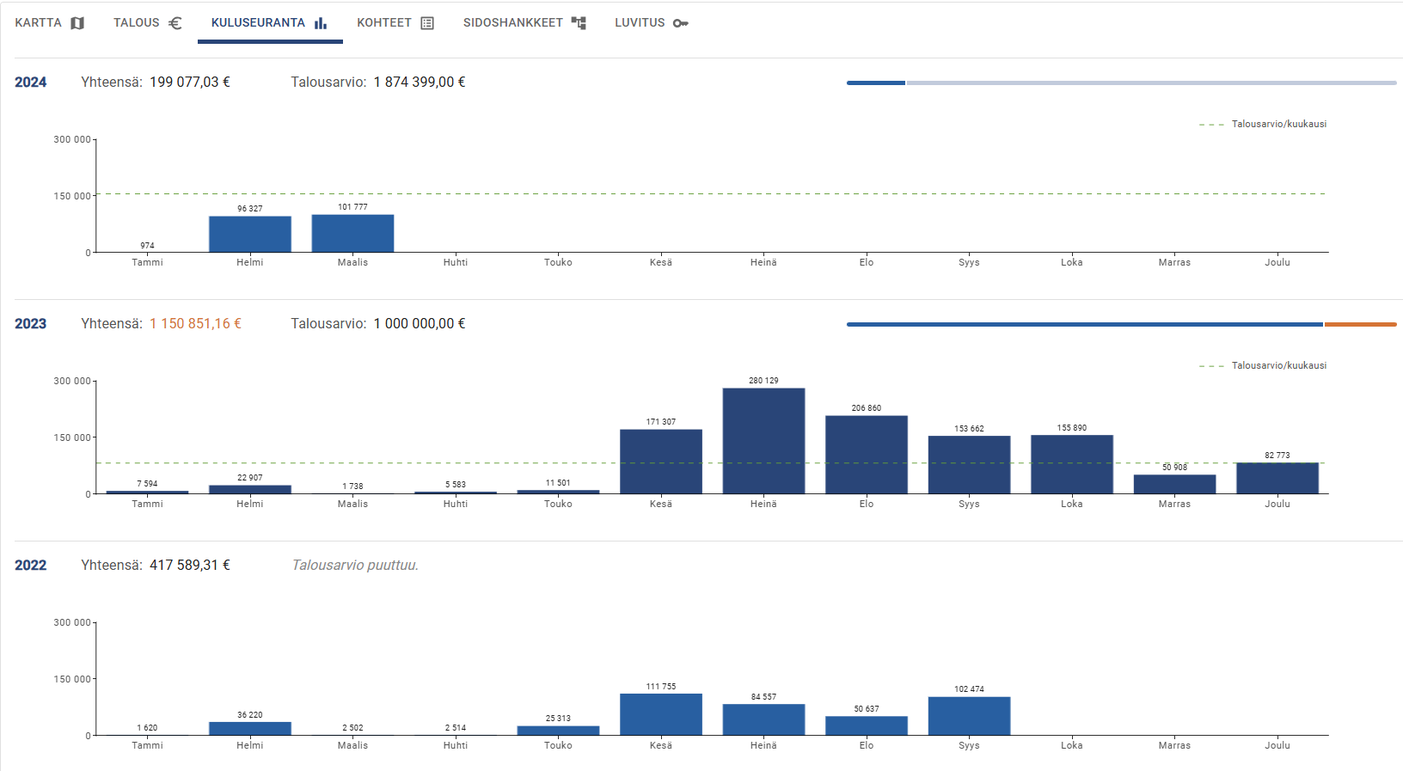
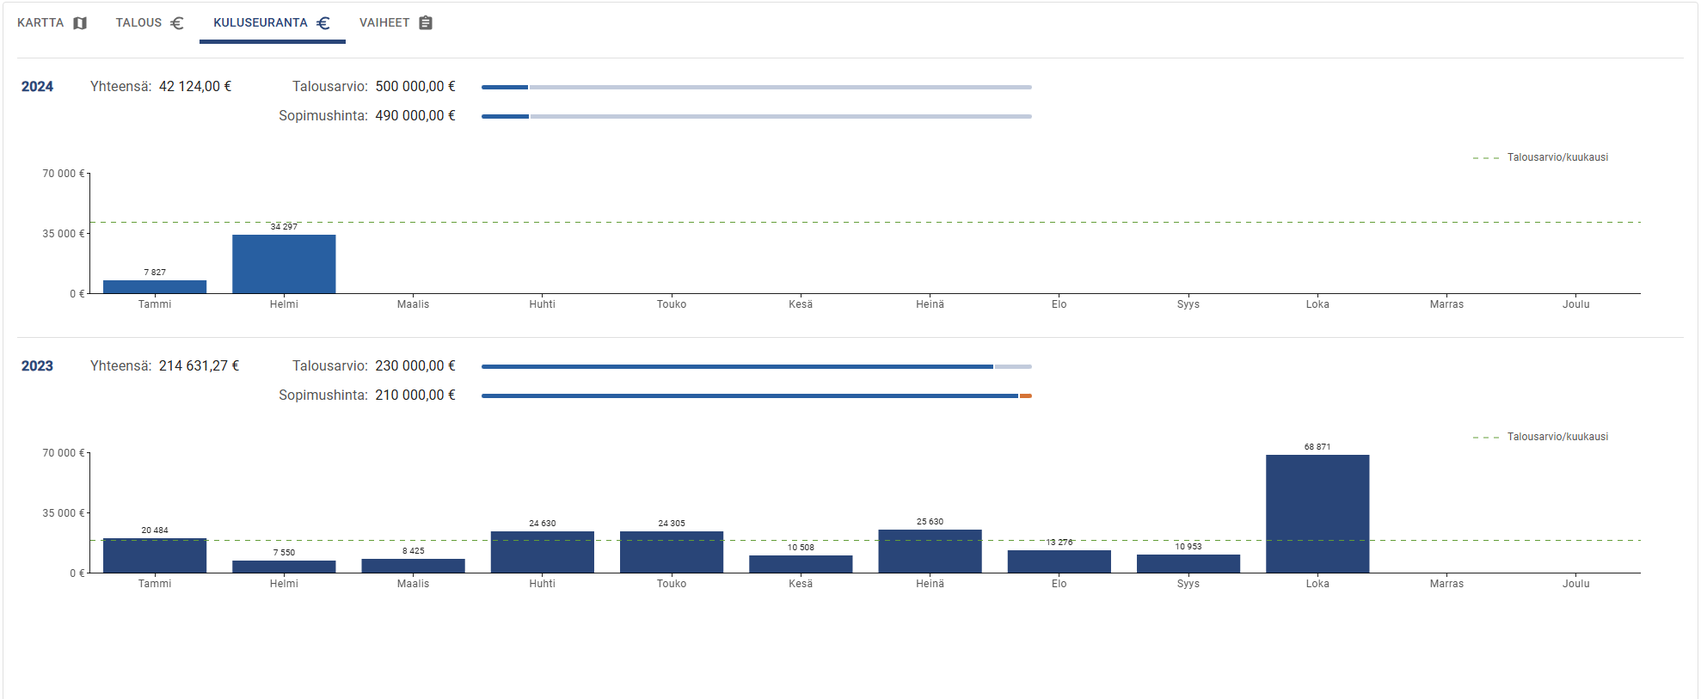
Updates to manual contents and images

diff --git a/frontend/src/views/Manual/fi.md b/frontend/src/views/Manual/fi.md
@@ -54,29 +54,24 @@
 - [Yrityksien ja heidän yhteyshenkilöiden hallinta](#yrityksien-ja-heidän-yhteyshenkilöiden-hallinta)
 
 # Yleistä
-
 Hanna on Tampereen kaupungin maankäytön suunnittelun ja toteuttamisen hanketietojärjestelmä. Se tarjoaa mahdollisuuden perustaa asemakaavoituksen, investointien ja kunnossapidon hankkeita, suunnitella niiden taloutta ja seurata niiden taloustoteumaa. Hannan rooli korostuu erityisesti hankesuunnittellussa: Millaisia hankkeita ja millaisella budjetilla toteutetaan vuoden, kolmen tai esimerkiksi viidentoista vuoden päästä.
 
 Hannan käyttöä laajennetaan käyttäjäryhmä kerrallaan. Viimeisimpinä mukaan ovat tulleet kunnossapitäjät ja kehitysohjelmat. Kehitys on aloitettu vuonna 2022. Kehittäjänä ja ylläpitäjänä toimii Ubigu Oy.
 
 # Järjestelmän tuki
-
 Lähitukea tarjoaa Jaana Turunen ([jaana.turunen@tampere.fi](mailto:jaana.turunen@tampere.fi)). Jaana vastaa myös käyttäjien luvittamisesta sovelluksen käyttöön. Hannalla on myös oma Teams -ryhmä, jossa järjestelmän käytöstä ja kehityksestä voi keskustella muiden käyttäjien ja kehittäjien kesken.
 
 Virhetilanteista ja bugeista viestiä voi lähettää myös suoraan kehittäjille osoitteeseen [tuki@ubigu.fi](mailto:tuki@ubigu.fi).
 
 # Testi- ja tuotantojärjestelmä
-
 Hannasta on olemassa kaksi eri järjestelmää. Testijärjestelmä toimii osoitteessa [tre-hanna-test.azurewebsites.net](https://tre-hanna-test.azurewebsites.net/). Siellä käyttäjät voivat kokeilla Hannan toiminnallisuuksia ilman huolta järjestelmän rikkoutumisesta tai tuotantokäytön häiriintymisestä. Varsinainen käyttö tapahtuu tuotantojärjestelmässä osoitteessa [hanna.tampere.fi](https://hanna.tampere.fi).
 
 Huomioi, että testijärjestelmään luodut tiedot voivat aikanaan poistua, ja se on tarkoitettu yksinomaan testaamiseen. Varsinainen hanketieto tulee kirjata tuotantojärjestelmään, missä sen säilymisestä, eheydestä ja varmuuskopioinnista huolehditaan. Järjestelmiin luvittaminen tapahtuu erikseen, eli esimerkiksi tuotantojärjestelmään pääsevä käyttäjä ei automaattisesti pääse myös testijärjestelmään.
 
 # Integraatiot muihin järjestelmiin
-
 Tässä kappaleessa on listattu kaupungin muut tietojärjestelmät, joiden kanssa Hanna omaa jonkinasteisen integraation.
 
 ## SAP
-
 Hanna lukee SAP:sta projektien tietoja sekä niiden tositteita. Toistaiseksi tietojen luku tapahtuu yksisuuntaisesti, eli SAP ei vastavuoroisesti hae tietoa Hannasta tai ota kantaa Hannan hankkeisiin. Hannasta käsin ei myöskään toistaiseksi ole mahdollista päivittää tietoja suoraan SAP:iin. Hanna hakee kaikki SAP:n projektit ja niiden tositteet kerran vuorokaudessa yöaikaan ja tallentaa ne omaan tietokantaansa, josta ne esitetään käyttöliittymässä. SAP:iin toteutetut muutokset ilmenevät näin ollen Hannassa yleensä päivän viiveellä.
 
 Projektien ja tositteiden haku SAP:sta on rajattu seuraaviin yrityksiin.
@@ -86,15 +81,12 @@ Projektien ja tositteiden haku SAP:sta on rajattu seuraaviin yrityksiin.
 - 1540 (ELOSA)
 
 ## Geoserver
-
 Paikkatietojen osalta Hanna hyödyntää kaupungin olemassaolevia aineistoja ja rajapintoja. Geoserveriltä haetaan erilaisia taustakartta-aineistoja (opaskartta, asemakaava, virastokartta...), rekisterikohteita (kiinteistöt, kadut...) sekä aluerajauksia (tilastoalueet). Saatavilla olevia aineistoja on mahdollista lisätä tarpeen mukaan. Toistaiseksi Hannassa piirretyt hanke- ja kohdealueet eivät ole tarjolla kaupungin Geoserverillä tai Oskari-karttapalvelussa.
 
 ## Hankkeen perustamisen ja ostotilauksen pyyntölomake (nk. e-lomake)
-
 Hannan navigointipalkin oikeasta laidasta löytyy painike, joka ohjaa käyttäjän kaupungin niin kutsutulle e-lomakkeelle, jota kautta voi pyytää SAP-projektin perustamista ja ostotilauksen tekemistä talousyksiköltä.
 
 # Karttasivu
-
 ![Hannan karttasivu](/images/karttasivu.png)<br/>
 
 Kartta on Hannan laskeutumissivu. Siellä käyttäjä voi tarkastella hankkeita, tai vaihtoehtoisesti niiden kohteita kartalla, tehdä hakuja, tarkastella niiden perustietoja sekä perustaa uusia hankkeita tai kohteita. Alla on kuvattu yllä näkyvään kuvaan numeroidut toiminnot tarkemmin.
@@ -117,13 +109,11 @@ Käyttäjä voi klikata kartalla näkyviä hanke- ja kohdealueita, jolloin niill
 Kattavimmat tiedot ja muokkausmahdollisuus löytyvät hankkeiden ja kohteiden omilta sivuilta.
 
 ## Uuden hankkeen perustaminen
-
 Uusi hanke perustetaan etusivulta löytyvästä _Luo uusi hanke_ -painikkeesta. Painaessaan sitä käyttäjä valitsee ensin, minkä hanketyypin mukaisen hankkeen hän haluaa perustaa. Vain ne hanketyypit, joiden perustamiseen käyttäjällä on oikeus, listataan (lue lisää [käyttöoikeuksista](#käyttöoikeudet)). Valinta on olennainen, sillä hanketyypeillä on erilaiset tietosisällöt ja rakenne. Tämän jälkeen käyttäjä ohjataan tyhjälle hankesivulle, jossa hankkeen tiedot pääsee täyttämään.
 
 Uusia kohteita voi perustaa karttasivun kohteet-välilehdeltä, hankesivuilta ja investointiohjelmoinnin näkymästä käsin.
 
 ## Hakujen tekeminen
-
 Hankkeita voi hakea seuraavilla ehdoilla.
 
 - Vapaa tekstihaku, joka kohdistuu nimeen, kuvaukseen sekä kaavanumeroon (jos kyseessä on asemakaavahanke)
@@ -156,13 +146,11 @@ Myös itse karttaikkuna toimii suodattimena. Hakutuloksiin ilmestyvät oletuksen
 # Käyttöoikeudet
 
 ## Käyttäjätyypit
-
 Hannaan luvitetut käyttäjät jakautuvat perus- ja pääkäyttäjiin. Hanna tunnistaa automaattisesti kirjautumisen yhteydessä, kumpaan ryhmään käyttäjä kuuluu. Pääkäyttäjillä on Hannan käyttöön laajimmat mahdolliset oikeudet, ja he pystyvät muokkaamaan kaikkia hankkeita, poistamaan niitä ja vaihtamaan niiden omistajia. Peruskäyttäjien käyttöoikeudet on kuvattu tarkemmin alla.
 
 Jos sinulla on tarve vaihtaa toiseen käyttäjätyyppiin, ole yhteydessä Jaana Turuseen (jaana.turunen@tampere.fi).
 
 ## Pääkäyttäjän luvitusnäkymä
-
 Pääkäyttäjille on luotu oma näkymänsä, joka ei ole tarjolla peruskäyttäjille. Näkymästä käsin pääkäyttäjät voivat muokata seuraavia peruskäyttäjien oikeuksia:
 
 - Oikeus perustaa investointihanke
@@ -177,35 +165,27 @@ Pääkäyttäjä ei voi poistaa toisen pääkäyttäjän oikeuksia, vaan ne luet
 _Pääkäyttäjän luvitusnäkymä näyttää tältä. Peruskäyttäjiltä kyseinen sivu puuttuu kokonaan. Muut pääkäyttäjät ilmenevät harmaina, eikä heidän oikeuksiaan pääse muokkaamaan._
 
 ## Lukuoikeus
-
 Jokaisella Hannaan pääsevällä käyttäjällä on oikeus lukea koko hankejoukkoa, joka Hannaan on avattu. Tämä koskee myös SAP:n rajapinnan yli haettuja talous- ja projektitietoja (huomioi erityisesti [SAP-raportit -näkymä](#sap-raportit-näkymä)). Toistaiseksi Hanna-sovelluksen käyttöön on kuitenkin luvitettu vain Tampereen kaupunkiorganisaatioon kuuluvia henkilöitä.
 
 ## Hankkeen perustamisoikeus
-
 Pääkäyttäjät sekä heidän yksilöimänsä käyttäjät voivat perustaa Hannassa uusia hankkeita. Pääkäyttäjä yksilöi perustamisoikeuden hanketyypin tarkkuudella. Näin esimerkiksi voidaan sallia käyttäjälle perustaa asemakaavahankkeita, mutta estää investointihankkeiden perustaminen joko vahingossa tai epätarkoituksenmukaisesti. Jos peruskäyttäjä ei omaa oikeutta perustaa mitään hankkeita, esitetään karttanäkymän oikeassa ylälaidassa näkyvä `Luo uusi hanke` -painike harmaana.
 
 ## Oikeus muokata hankkeen tietoja
-
 Hankkeiden muokkausoikeus on hankkeen omistajalla, hänen osoittamillaan muilla peruskäyttäjillä sekä Hannan pääkäyttäjillä. Hankkeen muokkausoikeudet eivät oikeuta muokkaamaan hankkeen käyttöoikeuksia, vaan niiden muokkaaminen on rajattu yksinään hankkeen omistajalle (sekä pääkäyttäjille). Muokkausoikeudet periytyvät myös hankkeen kohteille, ja se koskettaa myös niiden luontia ja poistamista. Talousarvioiden ja käyttösuunnitelman muutoksen muokkaamiseen tarvitaan kuitenkin lisäksi erillinen oikeus pääkäyttäjältä. Omistaja hallinnoi hankkeen muokkausoikeutta hankesivulta löytyvältä luvitusvälilehdeltä.
 
 ## Oikeus poistaa hanke
-
 Vain hankkeen omistaja ja pääkäyttäjä voivat poistaa hankkeen. Huomioi, että hankkeen poistaminen tarkoittaa myös sen kohteiden poistamista.
 
 ## Hankkeen omistajan vaihtaminen
-
 Hankkeen omistaja voi luopua omistajuudestaan ja osoittaa sen toiselle käyttäjälle niin halutessaan. Ennen vaihtoa Hanna kysyy häneltä varmistuksen vaihtopäätöksestä ja sen, halutaanko vanhalle omistajalle jättää vielä muokkausoikeus hankkeeseen. Ongelmatilanteiden ilmetessä pääkäyttäjä voi aina vaihtaa hankkeen omistajaa.
 
 ## Oikeus muokata talousarvioita ja käyttösuunnitelman muutoksia
-
 Muokatakseen investointi- ja/tai kunnossapitohankkeiden talousarvioita tai käyttösuunnitelman muutosta (KSM), peruskäyttäjä tarvitsee siihen erikseen luvan pääkäyttäjältä. Tämä oikeus on universaali, eli se tulee annetuksi kerralla koko Hannan investointi- ja/tai kunnossapitohankejoukolle sekä niiden kohteille. Käyttäjä, joka on luvitettu muokkaamaan talousarvioita ja KSM:ää, ei tarvitse erikseen hankkeen omistajalta muokkausoikeutta hankkeeseen muokatakseen kyseisiä arvoja. Hän tarvitsee ne kuitenkin muokatakseen mitään hankkeen muista tiedoista.
 
 # Hankesivu
-
 Hankesivu on hankkeen koko tietosisällön yhteenkokoava paikka.
 
 ## Hankkeen tietojen syöttö ja muokkaaminen
-
 Perustaakseen uuden hankkeen käyttäjän on täytettävä sen tietoihin vähintään pakolliset kentät. Pakolliset tietokentät on merkitty käyttöliittymässä tähtikuviolla ("\*"). Investointihankkeen tarkempi tietosisältö ja sen merkitys on kuvattu [täällä](#investointihankkeen-tietosisältö), asemakaavahankkeen [täällä](#asemakaavahanke) ja kunnossapitohankkeen [täällä](#kunnossapitohanke).
 
 Hankkeen perustamisen jälkeen sen tietoja voi edelleen muokata valitsemalla muokkaa-painikkeen sivun oikeassa yläkulmassa. Muokattujenkin tietojen tulee sisältää aina vähintään pakolliset tietosisällöt, jotta muokkausten tallentaminen on mahdollista. Jokainen muokkaus luo Hannan tietokantaan uuden version hankkeesta. Sen osana tallentuu tieto siitä, kuka muokkauksen on tehnyt, milloin se on toteutunut ja mitä tarkalleen on muokattu. Käyttäjät eivät toistaiseksi pysty palauttamaan käyttöliittymästä käsin hankkeen aiempia versioita, mutta Hannan kehittäjät pystyvät siihen tarvittaessa. Toistaiseksi hankkeen historia- ja versiotietoja ei esitetä käyttöliittymässä. Muokkauksen ajaksi välilehdet menevät piiloon. Halutessasi muokata esimerkiksi hankkeen taloutta mene suoraan kyseiselle välilehdelle ja valitse haluttu kenttä.
@@ -217,6 +197,8 @@ Hankesivulta löytyy lisäksi joitakin hanketyyppikohtaisia toimintoja. Investoi
 - Kohteiden perustaminen (lue lisää kohteista [täällä](#kohteet))
 - Talouden hallinta ([lue lisää](#talous))
 - Sidoshankkeiden osoittaminen ([lue lisää](#hankkeiden-liittyminen-toisiinsa))
+
+Lisäksi investointihankkeelle löytyy toiminnallisuus, jolla sen voi aloitusvuotta voi aikaistaa tai myöhentää. Toiminnallisuus on toteutettu erityisesti sellaisia hankkeita, joilla on jo joukko kohteita ja talouslukuja, silmällä pitäen. Toiminnallisuus löytyy muokkaa-painikkeen yhteydessä sijaisevasta alasvetovalikosta.
 
 Asemakaavahankkeiden osalta hankesivulta löytyvät seuraavat toiminnot:
 
@@ -328,11 +310,11 @@ Välilehdellä näytetään myös tiedotushistoria. Siitä selviää, kuinka mon
 
 Investointihanke on hanke, jolla kasvatetaan Tampereen kaupungin omaisuuden arvoa. Siihen käytetty raha on investointirahaa (vrt. käyttötalous), ja käytettävissä olevan rahan määrää ohjaavat eri lautakuntien vuosisuunnitelmat. Investointihankkeita on monenlaisia, minkä myötä tämän hanketyypin on tarkoitus olla yleiskäyttöinen. Investointihanke sisältää joukon investointikohteita. Myös kehitysohjelmat hyödyntävät investointihanketta (ks. sitovuuskenttä).
 
-Investointihankkeita ovat esimerkiksi:
-
+Investointihankkeita voivat olla esimerkiksi:
 - Kaukajärven pohjoisrannan kaava-alueen rakentaminen
 - XXVI (Jokipohja) alueen saneeraukset
 - Liikennevalojen saneerausinvestoinnit ja uudelleenohjelmoinnit
+- Näsikallion eritasoliittymä
 
 ### Investointihankkeen tietosisältö
 
@@ -344,7 +326,7 @@ Investointihankkeita ovat esimerkiksi:
 | Loppuajankohta   | Ajankohta jolloin hanke päättyy. Loppuajankohdan täytyy sijaita alkuajankohdan jälkeen.                                                                                                                                                                                                                                  | Kyllä            |
 | Omistaja         | Hankkeen omistajalla viitataan Hannan käyttäjään, joka omistaa hankkeen. Omistaja on oletuksena hankkeen perustanut käyttäjä. Sitä voi kuitenkin vaihtaa valitsemalla arvoksi toisen käyttäjän. Omistajalla on oikeus poistaa hanke ja osoittaa siihen muokkausoikeus                                                    | Kyllä            |
 | Elinkaaren tila  | Arvo valitaan seuraavista joukosta: Aloittamatta, Käynnissä, Valmis, Odottaa. Hanke saa perustamisen hetkellä elinkaaritilakseen automaattisesti arvon 'Aloittamatta'.                                                                                                                                                   | Kyllä            |
-| Lautakunta       | Hankkeelle voi valita yhden seuraavista lautakunnista: Yhdyskuntalautakunta, Elinvoima- ja osaamislautakunta, Asunto- ja kiinteistölautakunta, Joukkoliikennelautakunta. Hankkeen talouden katsotaan kohdistuvan valittuun lautakuntaan.                                                                                 | Kyllä            |
+| Lautakunta       | Hankkeelle voi valita yhden tai useamman seuraavista lautakunnista: Yhdyskuntalautakunta, Elinvoima- ja osaamislautakunta, Asunto- ja kiinteistölautakunta, Joukkoliikennelautakunta. Hankkeen taloutta hallitaan ja seurataan lautakunnittain.                                                                          | Kyllä            |
 | Sitovuus         | Hankkeelle voi valita yhden seuraavista sitovuuksista: peruskaupunki, viiden tähden keskusta ja hiedanranta. Kaksi viimeisintä ovat kehitysohjelmia. Oletusarvo on peruskaupunki.                                                                                                                                        | Kyllä            |
 | SAP-projektin ID | Mikäli hanke löytyy SAP:sta, voi sen SAP-projektin ID:n kertoa Hannan hankkeelle taloustoteuman seuraamiseksi. Ole tarkkana, että annat arvoksi juuri SAP-projektin tunnisteen, etkä esimerkiksi rakenneosan tunnusta. Hanna validoi annetun tunnisteen ja viestii käyttäjälle sen onnistumisesta tai epäonnistumisesta. | Ei               |
 
@@ -352,11 +334,13 @@ Investointihankkeita ovat esimerkiksi:
 
 Kohde on investointihankkeen sisäinen olemassa oleva tai suunnitteilla oleva fyysinen rakennelma, jolla on tunnistettu käyttötarkoitus. Investointihanke voi esimerkiksi viitata kokonaisen kaava-alueen suunnitteluun ja rakentamiseen, kun taas sen kohdetaso tarkentaa kaava-alueen toimet yksittäisiin katuihin, puistoihin, taitorakenteisiin ja viemäreihin. Kohteiden pääasiallinen tarkoitus on tarkentaa hankkeen toimenpiteiden, rahan, aikataulun, vastuiden ja tavoitteiden kohdistumista sekä keskinäistä priorisointia.
 
-Kohteiden kirjaaminen ei ole pakollista, eikä niiden lukumäärää ole rajoitettu. Hankkeen sisältämät kohteet on listattu kohteetvälilehdelle. Sieltä käsin käyttäjä voi kirjata hankkeelle myös uusia kohteita valitsemalla _Luo uusi kohde_ -painikkeen. Valitsemalla kohteen käyttäjä siirtyy kohdesivulle, joka muistuttaa hankesivua, mutta kuvaa hankkeen sijasta sen kohteen.
+Kohteiden kirjaaminen ei ole pakollista, eikä niiden lukumäärää ole rajoitettu. Hankkeen sisältämät kohteet on listattu "kohteet" -välilehdelle. Sieltä käsin käyttäjä voi kirjata hankkeelle myös uusia kohteita valitsemalla _Luo uusi kohde_ -painikkeen. Valitsemalla kohteen käyttäjä siirtyy kohdesivulle, joka muistuttaa hankesivua, mutta kuvaa hankkeen sijasta sen kohteen.
 
 Tällä hetkellä toimintatapana on, että suunnittelulle ja rakentamiselle avataan omat kohteensa. Kiinnitä siis huomiota erityisesti tietokenttään "kohteen laji".
 
 Kohteen toteutusväli ei saa sijaita hankkeen toteutusvälin ulkopuolella. Jos käyttäjä yrittää avata, tai muokata olemassaolevaa kohdetta niin, että näin on käymässä, Hanna pyytää muokkaamaan toteutusväliä, ja vaihtoehtoisesti tarjoaa mahdollisuutta laventaa hankkeen toteutusväliä. Vastavuoroisesti käyttäjän ei anneta kaventaa hankkeen toteutusväliä, jos se tarkoittaisi sitä, että jokin sen kohteista jäisi sen toteutusvälin ulkopuolelle.
+
+Kohteelle on lisäksi toteutettu toiminnallisuus, jossa sen voi siirtää toiselle hankkeelle. Toiminnallisuus löytyy muokkaa-painikkeen yhteydessä sijaitsevasta alasvetovalikosta. Kohteen voi siirtää vain toiselle investointihankkeelle, jonka toteutusväli ja lautakuntavalinnat ovat sille soveltuvat. Siirrettävän kohteen mahdollisesti sisältämä SAP-rakenneosan tunniste poistetaan siirron yhteydessä, ja se pitää täyttää tarvittaessa uudestaan käsin. 
 
 #### Investointikohteen tietosisältö
 
@@ -367,6 +351,7 @@ Kohteen toteutusväli ei saa sijaita hankkeen toteutusvälin ulkopuolella. Jos k
 | Kohteen laji                   | Yksilöi, onko kohteessa kyse suunnitelusta vai rakentamisesta. Arvo valitaan alasvetovalikosta.                                                                                                                                                                                                                       | Kyllä            |
 | Alkuajankohta                  | Ajankohta jolloin kohteen toteutus alkaa.                                                                                                                                                                                                                                                                             | Kyllä            |
 | Loppuajankohta                 | Ajankohta jolloin kohteen toteutus päättyy.                                                                                                                                                                                                                                                                           | Kyllä            |
+| Lautakunta                     | Kohteelle valitaan lautakunta niistä lautakunnista, jotka on valittu sen hankkeelle. Jos kohteen hankkeelle on osoitettu vain yksi lautakunta, saa kohde saman lautakunnan. Lautakuntavalinta pitää tällöinkin kuitenkin tehdä käsin.                                                                                 | Kyllä            |
 | Elinkaaritila                  | Arvon voi valita seuraavista: Ehdotettu, Aloittamatta, Käynnissä tai Valmis. Kohde saa perustamisen hetkellä elinkaaritilakseen automaattisesti 'Aloittamatta'. Hankkeen ja sen kohteiden elinkaaritilojen hallinta perustuu toistaiseksi manuaaliseen kirjaamiseen, eikä niiden keskinäistä logiikka ole rajoitettu. | Kyllä            |
 | Kohteen tyyppi                 | Kohteen tyyppi kertoo, onko kyse uudesta rakentamisesta vai olemassaolevan kohteen muokkaamisesta. Kohteelle valitaan yksi tyyppi arvojoukosta: Uudisrakentaminen, Peruskorjaaminen, Toimivuuden parantaminen.                                                                                                        | Kyllä            |
 | Omaisuusluokka                 | Omaisuusluokka määrittelee poistoajan, jonka mukaan käytetty investointi poistuu taseesta. Arvo valitaan alasvetovalikosta valmiista koodistosta.                                                                                                                                                                     | Kyllä            |
@@ -392,27 +377,30 @@ Toimijoiden yksilöiminen kohteelle ei ole pakollista. Yhteen rooliin on mahdoll
 _Yllä olevassa kuvassa on esitetty kohteelle valitut toimijat. Valvojaksi on valittu useampi henkilö._
 
 #### Vaiheet
-
 Vaihe on kohteeseen kohdistuva työvaihe, josta syntyy jokin konkreettinen tulos ja samalla kustannus. Vaiheet haetaan SAP:sta olettaen, että Hannan kohteelle on kirjattu soveltuva SAP-rakenneosan tunniste. Vaiheella ei ole sijaintia. Vaiheen tuloksena voi olla esimerkiksi uusi tai korjattu rakennus tai muu rakennelma, asiakirja, mittaustulos tai ylläpitotoimi. Alla olevassa taulukossa on kuvattu vaiheen tietosisältö. Vaiheille listataan tiedoksi niiden nelinumeroinen tyyppikoodi, sen sanallinen selite sekä toteuma. Jos selitettä ei ole tarjolla, esitetään vain tyyppikoodi. Toteuman suhteen on tärkeää huomioida se, että SAP:n tositteen voi osoittaa myös suoraan rakenneosalle, mikä tarkoittaa sitä, että Hannan kohteella näytettävä toteuma ei aina vastaa sen vaiheiden yhteenlaskettua toteumaa.
 
 ### Taloussuunnittelu ja -seuranta investointihankkeella
+Hankkeen ja sen kohteiden talousvälilehdiltä käsin on mahdollista tarkastella ja/tai kirjata niille vuosikohtainen kustannusarvio, talousarvio, sopimushinta, ennuste ja käyttösuunnitelman muutos. Lisäksi samaan näkymään luetaan SAP:sta toteuma, jos sellainen on tarjolla. Toteuman esittämisen ehtona on, että hankkeelle/kohteelle on osoitettu soveltuva SAP-tunniste. Talous-välilehdelle näkyvien vuosikohtaisten rivien lukumäärä johdetaan automaattisesti hankkeelle/kohteelle annetusta toteutusvälistä (alku- ja loppuajankohta). Luvut esittävät aina euroja, ja ne esitetään kahden desimaalin tarkkuudella. Hanketasolla on mahdollista kirjata yksinään kustannusarvio, kun taas muut muuttujat kirjataan kohdetasolla, joista käsin ne koostetaan tiedoksi hankkeelle.
 
-Hankkeen ja kohteen talousvälilehdeltä käsin niille on mahdollista tarkastella ja kirjata vuosikohtaisesti kustannusarvio, talousarvio, sopimushinta, ennuste ja käyttösuunnitelman muutos. Lisäksi samaan näkymään luetaan SAP:sta toteuma, jos sellainen on tarjolla. Talous-välilehdelle näkyvien vuosikohtaisten rivien lukumäärä johdetaan automaattisesti hankkeelle annetusta toteutusvälistä (alku- ja loppuajankohta). Luvut annetaan aina euroina. Kirjaaminen on mahdollista kahden desimaalin tarkkuudella. Kustannusarviota lukuunottamatta kaikki muuttujat kirjataan kohteelle, josta käsin ne summataan hankkeelle tiedoksi. Kustannusarvio on ainoa muuttuja, jonka pystyy kirjaamaan myös hankkeelle.
+Jos hankkeelle on osoitettu useita lautakuntia, esitetään talous lautakunnittain. Kohteen talouslehdellä hankkeen mahdollinen monilautakuntaisuus ei vaikuta, sillä kohde voi kuulua kerrallaan vain yhteen hankkeelle osoitetuista lautakunnista. 
 
-Talousosioon kirjattujen lukujen katsotaan kohdistuvan aina hankkeelle kirjattuun lautakuntaan. Alla on tarkemmat kuvaukset kustakin muuttujasta:
+![monilautakuntaisen_investointihankkeen_talousvälilehti](/images/monilautakuntainen_talousvalilehti.png)
 
-- **Kustannusarvio:** Kustannusarvio on hankkeelle arvioitu kustannus, joka on ehdolla talousarvioon. Arvion voi täyttää sekä hanke- että kohdetasolla. Kustannusarviot hankkeen ja sen kohteiden välillä eivät ole yhdistetty toisiinsa.
-- **Talousarvio:** Talousarvio on käyttäjän arvio ja päättäjille esitettävä kustannus kohteen toteuttamisesta. Talousarvion voi kirjata vain kohteelle, joista käsin ne summataan tiedoksi hanketasolle.
-- **Sopimushinta:** Sopimushinta on summa, joka on sovittu kohteen urakkasopimuksessa rakentajan, suunnittelijan tai vastaavan kanssa. Sopimushinnan voi kirjata vain kohteelle, joista käsin ne summataan tiedoksi hanketasolle.
-- **Toteuma:** Hankkeille ja sen osille, joille on ilmoitettu sopiva SAP-tunniste esitetään toteuma, joka kustannuksien ja tulojen summa. Toteuma ilmoitetaan vuositasolla, kuten muutkin luvut. Toteuman näkeminen mahdollistaa hankkeiden taloudellisen seurannan sekä reagoinnin mahdollisiin poikkeamiin, kuten budjetin ylityksiin. Toteumaa ei voi muokata Hannasta käsin. Toteuma haetaan suoraan SAP:iin kirjatuista tositteista summaamalla niiden luvut vuosikohtaisesti.Tositteista ei huomioida käyttöomaisuuskirjauksia (laji: AA), eikä niitä, joiden tositelaji on tyhjä.
-- **Ennuste**: Ennusteella viitataan kohteen tuntevan käyttäjän arvioon siitä, miten talousarvio kestää tarkastelun toteumaa vasten. Ennusteen kirjaaminen on tapa viestiä budjetin (talousarvion) alittumisesta tai ylittymisestä. Budjetin ylitys kirjataan positiivisena, eli esimerkiksi sadan tuhannen euron ylitys kirjataan arvona 100 000. Budjetin alitus kirjataan taas negatiivisena numerona, esimerkiksi -100 000. Hannan käyttöliittymä värittää budjetin ylitykset punaisella värillä ja alitukset sinisellä värillä. Ennustetta voi muokata vain kohdetasolla, mistä käsin luvut summataan tiedoksi hankkeelle.
-- **Käyttösuunnitelman muutos:** Mikäli kohteen todellinen toteuma uhkaa kasvaa merkittävästi ennakoidusta, voi sille osoittaa lisää varoja käyttösuunnitelman muutoksen (KSM) muodossa. KSM on aina positiivinen luku. Sen voi kohdetasolla, mistä käsin luvut summataan tiedoksi hankkeelle.
+_Yllä olevassa kuvassa on esitetty talousvälilehti investointihankkeelle, jolle on yksilöity kaksi lautakuntaa: yhdyskuntalautakunta ja asunto- ja kiinteistölautakunta. Vuosikohtaiset talousrivit on eritelty niin, että jokaiselle lautakunnalle on omansa. Luvut on summattu alhaalla. Hankkeella ainoastaan kustannusarviokenttä on muokattavissa._
 
-Kuluseurannan välilehdeltä käyttäjät voivat tarkastella hankkeen toteumaa pylväsdiagrammina. Toteuma on eritelty kuukausittain. Kuluseurannan välilehti ei ole valittavissa, mikäli hanke ei ole vielä alkanut ja/tai sille ei ole osoitettu soveltuvaa SAP-projektin tunnistetta. Vastaava välilehti on saatavilla myös hankkeen kohteille olettaen, että niille on osoitettu vielä SAP-rakenneosan tunniste. Toteumaa verrataan talousarviota vasten, jos käyttäjä on sellaisen kirjannut.
+Alla on annettu tarkemmat kuvaukset, jokaisesta talousmuuttujasta. 
+- **Kustannusarvio:** Kustannusarvio on hankkeelle tai sen kohteelle arvioitu kustannus, joka on ehdolla talousarvioon. Huomioi, että hankkeen ja sen kohteiden kustannusarvioita ei toistaiseksi validoida suhteessa toisiinsa. 
+- **Talousarvio:** Talousarvio on päättäjille esitettävä kustannus kohteen toteuttamisesta. Talousarvio voi erota kustannusarviosta esimerkiksi niin, että kohteen toteutukseen ei myönnetä käyttäjän siihen arvioimaa summaa. Talousarvion voi kirjata vain kohteelle, joista käsin ne summataan tiedoksi hanketasolle. Huomioi, että talousarvion muokkaaminen vaatii lisäoikeuksia.
+- **Sopimushinta:** Sopimushinta on summa, joka on sovittu kohteen urakkasopimuksessa rakentajan, suunnittelijan tai muun vastaavan kanssa. Sopimushinnan voi kirjata vain kohteelle, joista käsin ne summataan tiedoksi hanketasolle.
+- **Toteuma:** Hankkeille ja sen osille, joille on ilmoitettu sopiva SAP-tunniste esitetään toteuma, joka on sen kustannuksien ja tulojen summa. Toteuma ilmoitetaan vuositasolla, kuten muutkin luvut. Toteuman näkeminen mahdollistaa hankkeiden taloudellisen seurannan sekä reagoinnin mahdollisiin poikkeamiin, kuten budjetin ylityksiin. Toteumaa ei voi muokata Hannasta käsin. Toteuma haetaan suoraan SAP:iin kirjatuista tositteista summaamalla niiden luvut vuosikohtaisesti.Tositteista ei huomioida käyttöomaisuuskirjauksia (tositelaji: AA), eikä niitä, joiden tositelaji on tyhjä.
+- **Ennuste**: Ennusteella viitataan kohteen tuntevan käyttäjän arvioon siitä, miten talousarvio kestää tarkastelun toteumaa vasten. Ennusteen kirjaaminen on tapa viestiä budjetin (talousarvion) alittumisesta tai ylittymisestä. Budjetin ylitys kirjataan positiivisena, eli esimerkiksi sadan tuhannen euron ylitys kirjataan arvona 100 000. Budjetin alitus kirjataan taas negatiivisena numerona, esimerkiksi -100 000. Hannan käyttöliittymä värittää budjetin ylitykset punaisella värillä ja alitukset sinisellä värillä. Ennustetta voi muokata vain kohdetasolla, mistä käsin luvut summataan tiedoksi hankkeelle. 
+- **Käyttösuunnitelman muutos:** Mikäli kohteen todellinen toteuma uhkaa kasvaa merkittävästi ennakoidusta, voi sille osoittaa lisää varoja käyttösuunnitelman muutoksen (KSM) muodossa. KSM on aina positiivinen luku. Sen voi kirjata kohdetasolla, mistä käsin luvut summataan tiedoksi hankkeelle. Huomioi, että KSM:n muokkaaminen vaatii lisäoikeuksia.
+
+Kuluseurannan välilehdeltä käyttäjät voivat tarkastella hankkeen toteumaa pylväsdiagrammina. Toteuma on eritelty kuukausittain. Kuluseurannan välilehti ei ole valittavissa, mikäli hanke ei ole vielä alkanut ja/tai sille ei ole osoitettu soveltuvaa SAP-projektin tunnistetta. Vastaava välilehti on saatavilla myös hankkeen kohteille olettaen, että niille on osoitettu vielä SAP-rakenneosan tunniste. Toteumaa verrataan talousarviota ja sopimushintaa vasten, jos käyttäjä on sellaiset kirjannut.
 
 ![Kuluseurannan välilehti](/images/kuluseuranta.png)
 
-_Yllä olevassa kuvassa on nähtävissä kuluseurannan välilehti, ja siinä toteumaa kolmelle vuodelle. Kahdella niistä on lisäksi kirjattu talousarvio, jonka pohjalta Hanna esittää hankkeen/kohteen toteuman ja talousarvion suhteen vaakapalkkina oikeassa ylälaidassa. Oranssi väri viittaa siihen, että toteuma on jo ylittänyt talousarvion._
+_Yllä olevassa kuvassa on nähtävissä kuluseurannan välilehti kohteella, ja siinä toteumaa kahdelle vuodelle. Molemmille vuosille on kirjattu sekä talousarvio että sopimushinta, minkä pohjalta Hanna esittää niiden suhteen toteumaa vasten vaakapalkkeina oikeassa ylälaidassa. Oranssi väri viittaa siihen, että toteumassa on tapahtunut ylitys._
 
 ## Kunnossapitohanke
 
